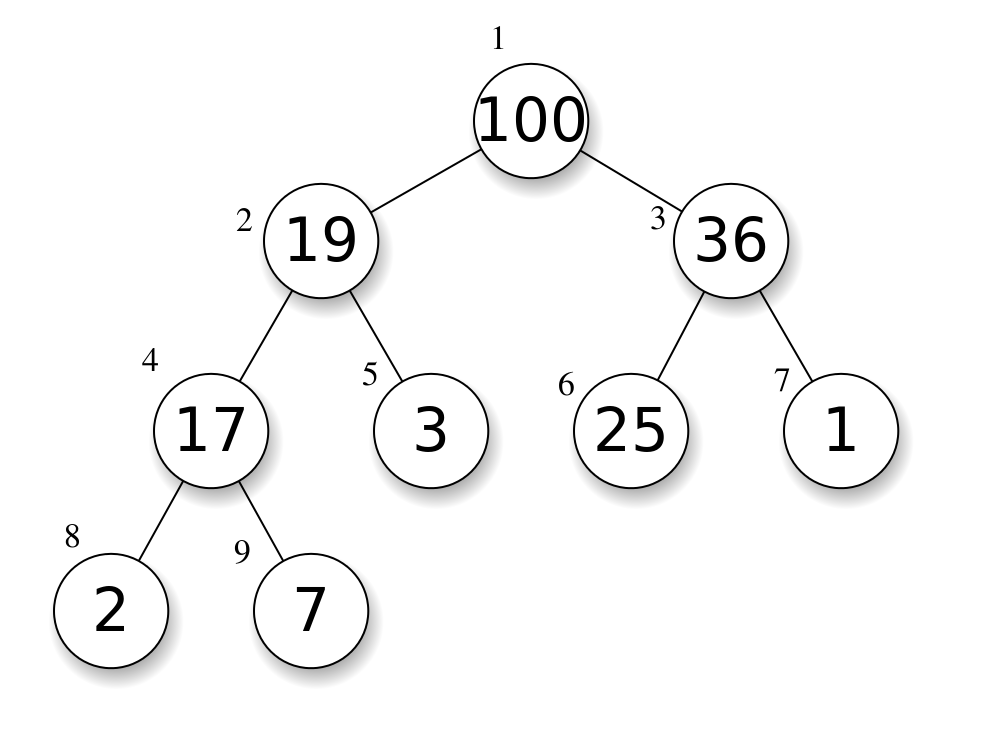
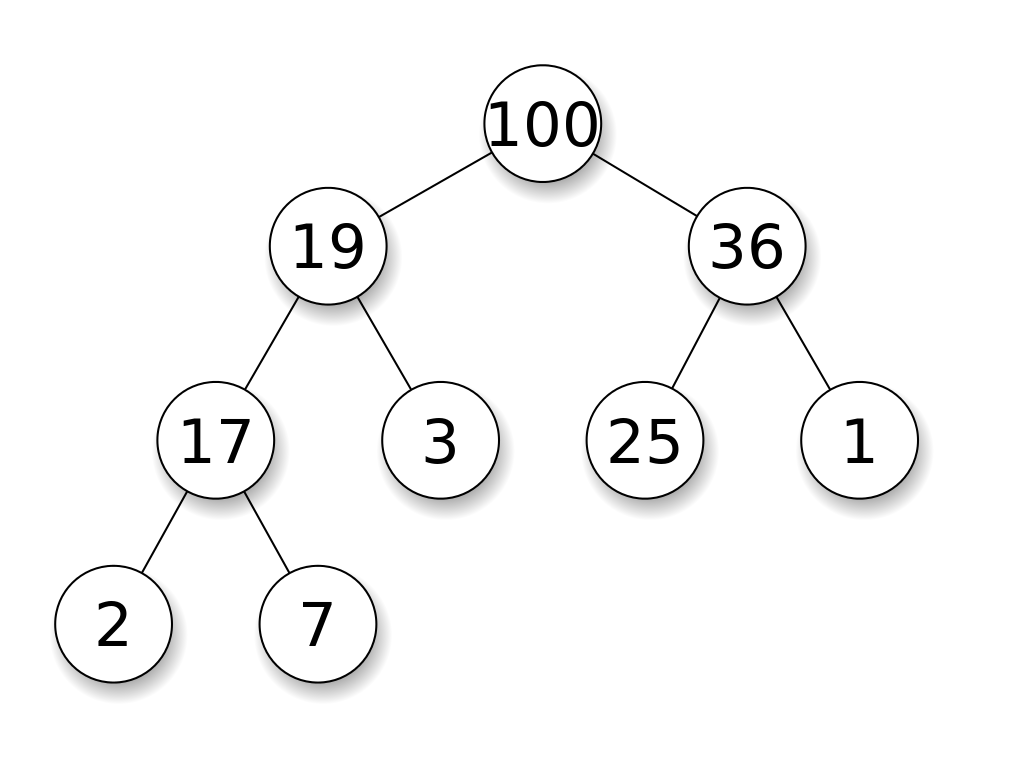
Fix HeapSort image

diff --git a/_posts/2016-11-20-HeapSort.md b/_posts/2016-11-20-HeapSort.md
@@ -42,7 +42,7 @@ one element;
 
 An example of an _heap_ with values from 1 to 100:
 
-<img class="image-post" src="{{ site.url }}/images/heapsort/max-heap.png" alt="Heap">
+<img class="image-post" src="{{ site.url }}/images/heapsort/max-heap.png" alt="Heap" style="max-height: 300px;">
 
 An _heap_ with $$n$$ nodes has an height of $$\Theta(log_2n)$$.
 It can be easily represented by an array in which if the radix of the tree is placed in the index ```i = 0```:
